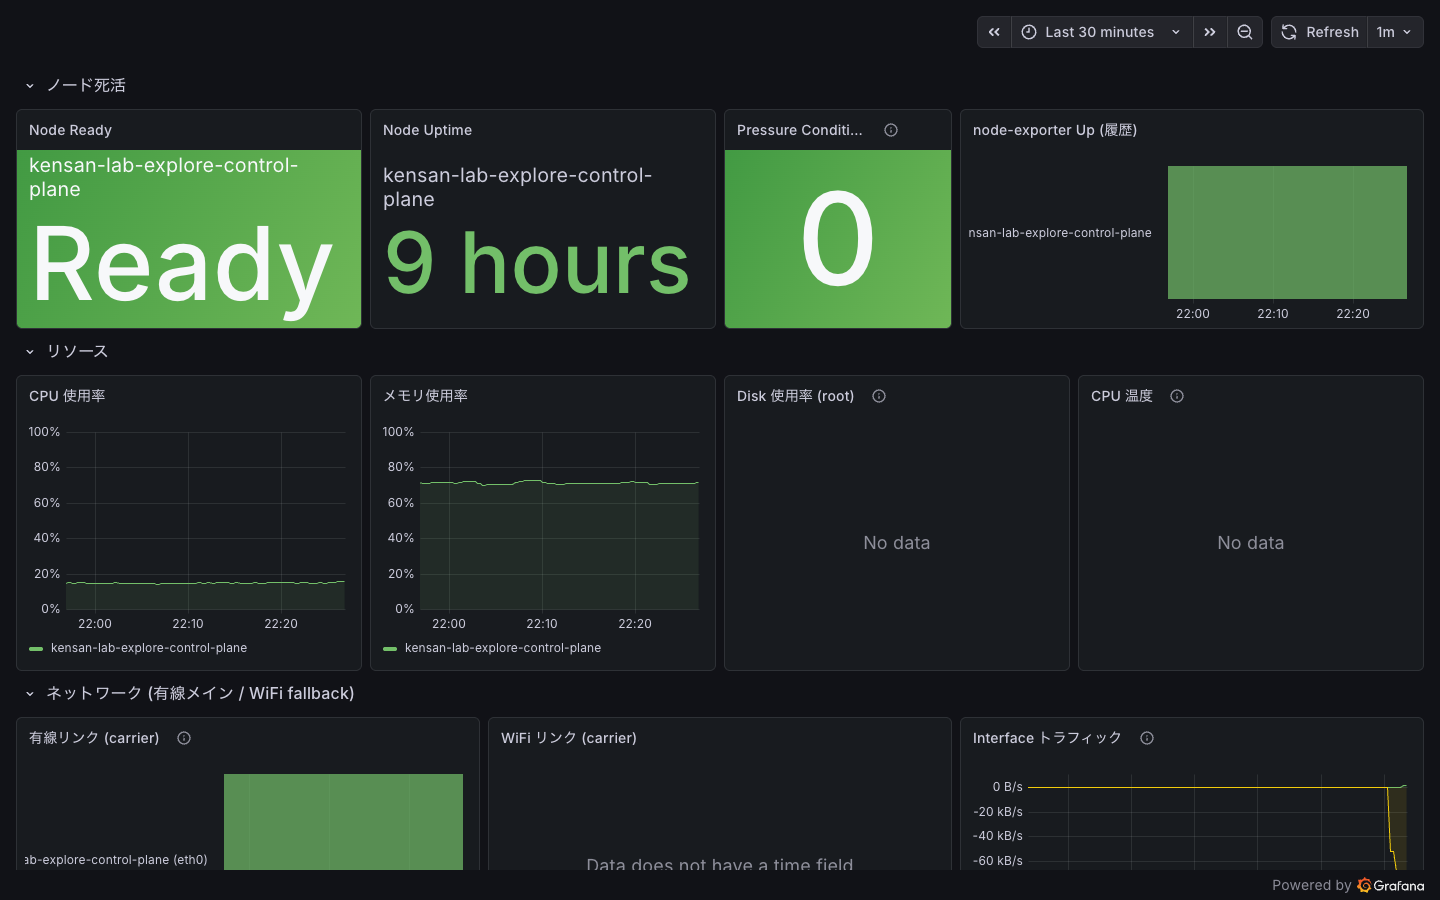
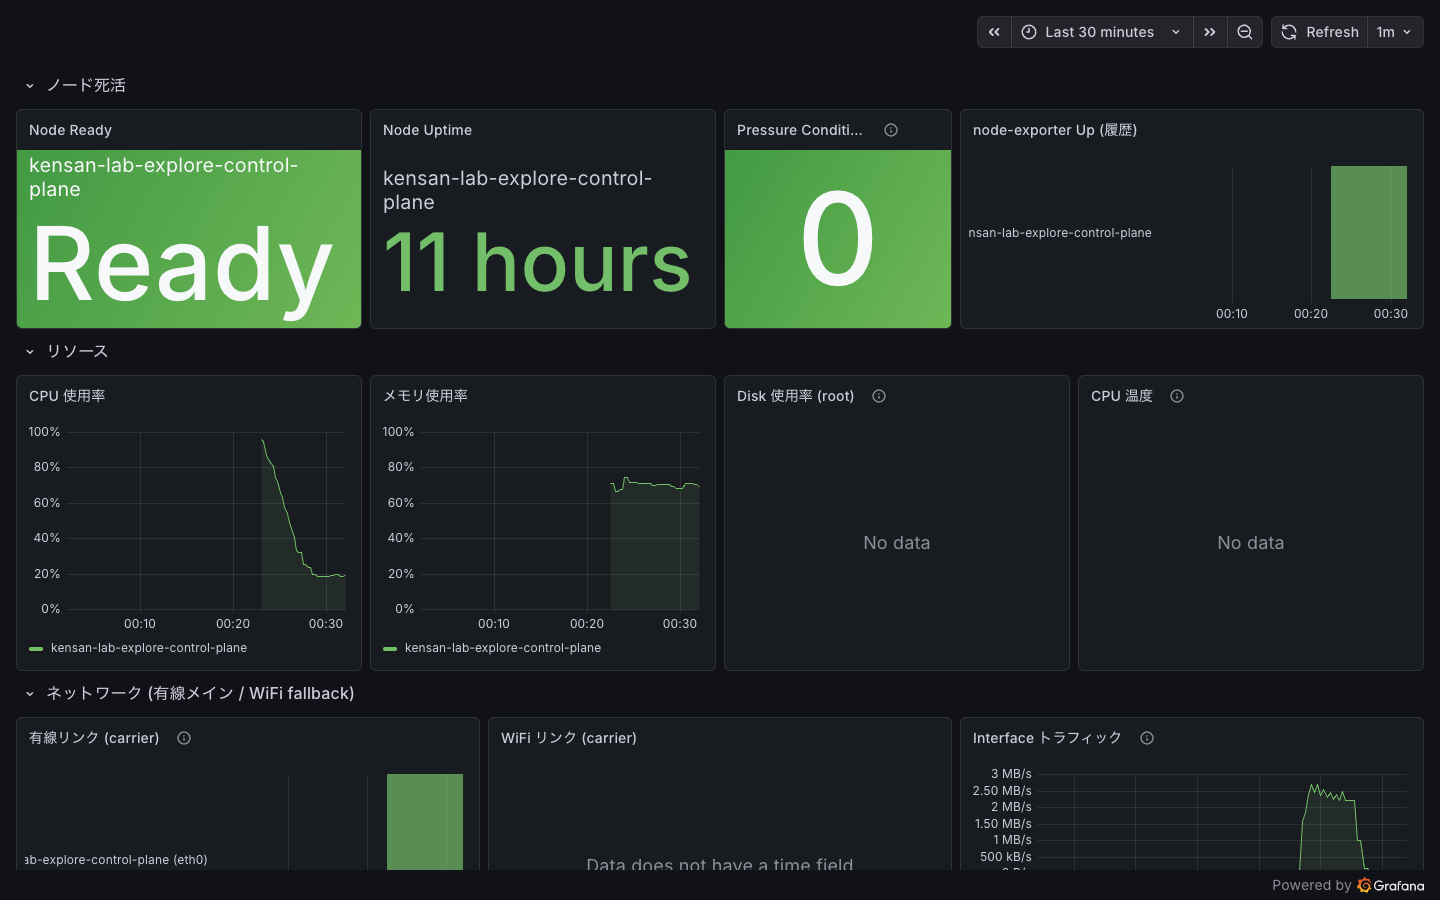
explore: Backstage を native OIDC に合わせ、ログイン往復を検証する (#506)
* explore: Backstage を native OIDC に合わせる

#503 で Backstage が Keycloak と直接話すようになったので、ゲートの内側から出す。
Argo CD / Grafana と同じ側になり、/oauth2 ルートと ReferenceGrant は不要。

explore-up.sh が backstage client と secret を作る。Keycloak の discovery を
HTTPS で取りに行くので、自己署名 CA を NODE_EXTRA_CA_CERTS で渡す（無いと
UNABLE_TO_VERIFY_LEAF_SIGNATURE で、Keycloak 側の障害に見える）。

ログイン往復の検証を足した。Bearer token 版は #499 で authorization を渡さなく
なった時点で成立しておらず、そもそも redirect_uri も CSRF cookie も通らない
近道だった。

* explore: backstage namespace を Secret より先に作る

* explore: Backstage のログイン往復を検証し、スクショを撮る

native OIDC は proxy 経由と経路が違う（CSRF cookie も /oauth2/callback も無い）
ので、専用の検証スクリプトを足した。捕まえたい失敗は 2 つで、Keycloak が知らない
client と Node が信頼しない discovery 証明書。どちらも pod は健全に見える。

diff --git a/scripts/explore-screenshots.py b/scripts/explore-screenshots.py
@@ -23,7 +23,12 @@ import os
 import pathlib
 import sys
 
-from playwright.sync_api import Page, TimeoutError as PlaywrightTimeout, sync_playwright
+from playwright.sync_api import (
+    Error as PlaywrightError,
+    Page,
+    TimeoutError as PlaywrightTimeout,
+    sync_playwright,
+)
 
 OUT = pathlib.Path(__file__).resolve().parent.parent / "docs" / "getting-started" / "assets"
 DEMO_USER = "demo"
@@ -133,6 +138,30 @@ def main() -> int:
         # review, which a false-negative selector wait is not.
         shot(page, "https://argocd.127-0-0-1.sslip.io/applications/argocd/explore-root",
              "argocd-tree", settle=7000)
+
+        # Backstage runs its own sign-in rather than sitting behind the gate, so
+        # it needs its own click: the button opens a popup, the popup carries the
+        # Keycloak form, and it closes itself once the identity is issued.
+        page.goto("https://backstage.127-0-0-1.sslip.io/", wait_until="domcontentloaded")
+        page.wait_for_timeout(3000)
+        button = page.locator("button", has_text="SIGN IN").first
+        if button.count():
+            with page.expect_popup(timeout=20000) as popup:
+                button.click()
+            window = popup.value
+            window.wait_for_selector("#username", timeout=20000)
+            window.fill("#username", DEMO_USER)
+            window.fill("#password", DEMO_PASSWORD)
+            try:
+                window.click("#kc-login")
+            except PlaywrightError:
+                # The popup closes the moment the identity is issued, which
+                # races the click's own acknowledgement. The result shows up on
+                # the main page either way.
+                pass
+            page.wait_for_timeout(9000)
+        shot(page, "https://backstage.127-0-0-1.sslip.io/create",
+             "backstage-create", settle=6000)
         # Backstage is missing on purpose. The image explore pins
         # (ghcr.io/yu-min3/kensan-lab/backstage) and the one bare metal pins
         # (ghcr.io/yu-min3/backstage) are different builds sharing the tag

diff --git a/docs/getting-started/try-it-with-kind.md b/docs/getting-started/try-it-with-kind.md
@@ -146,8 +146,7 @@ Those are two different mechanisms, and the difference is the interesting part:
 | | how it authenticates | why |
 |---|---|---|
 | **demo app** | gateway `ext_authz` → oauth2-proxy | the demo has no auth code of its own |
-| **Backstage (production)** | app-native OIDC → Keycloak | Backstage resolves the verified email to a Catalog User and issues its own application token |
-| **Argo CD, Grafana** | their own OIDC client | they already have identity, roles and an API; a second gate in front would mean two logins |
+| **Backstage, Argo CD, Grafana** | their own OIDC client | they already have identity, roles and an API of their own; a gate in front would mean signing in twice. Backstage resolves the verified email to a Catalog user and then issues its own token |
 
 Bare metal draws the line in the same place, for the same reason.
 
@@ -163,18 +162,21 @@ bare metal's own bootstrap script does.
 
 This is the part that makes the repository a platform rather than a cluster.
 
-Open `https://backstage.127-0-0-1.sslip.io`. You are sent to Keycloak first,
-the same as the demo app — the portal sits behind the gateway's gate rather
-than authenticating on its own. Sign in as `demo` and you arrive as a named
-user, not a guest: the portal knows who you are because the proxy told it.
+Open `https://backstage.127-0-0-1.sslip.io`. You are already signed in — the
+portal asks Keycloak directly, Keycloak recognises the session from step 2, and
+you arrive as a named user rather than a guest.
 
-That is not a choice this layer makes. The frontend picks its sign-in page by
-hostname — `localhost` and `127.0.0.1` get the guest provider, every other host
-expects to be behind oauth2-proxy — and that decision is compiled into the
-bundle. Explore is served at a real hostname, so it takes the second path, and
-the SSO from step 2 is what makes it work.
+**Which is a different mechanism from the demo app, deliberately.** Backstage
+holds its own OIDC client and issues its own token afterwards, because it has a
+user model to attach that identity to: the email Keycloak verified is matched
+against a user in the catalog, and everything the portal shows you is scoped to
+who that turned out to be. Putting it behind the gateway's gate as well would
+mean signing in twice for no gain — so the line runs exactly where it runs on
+bare metal.
 
 Two things are worth finding:
+
+![Backstage's Create page showing the FastAPI Application template](assets/backstage-create.png)
 
 - **Create → the FastAPI template.** This is the golden path: the scaffolder a
   developer uses to start a service that arrives on the platform already wired
